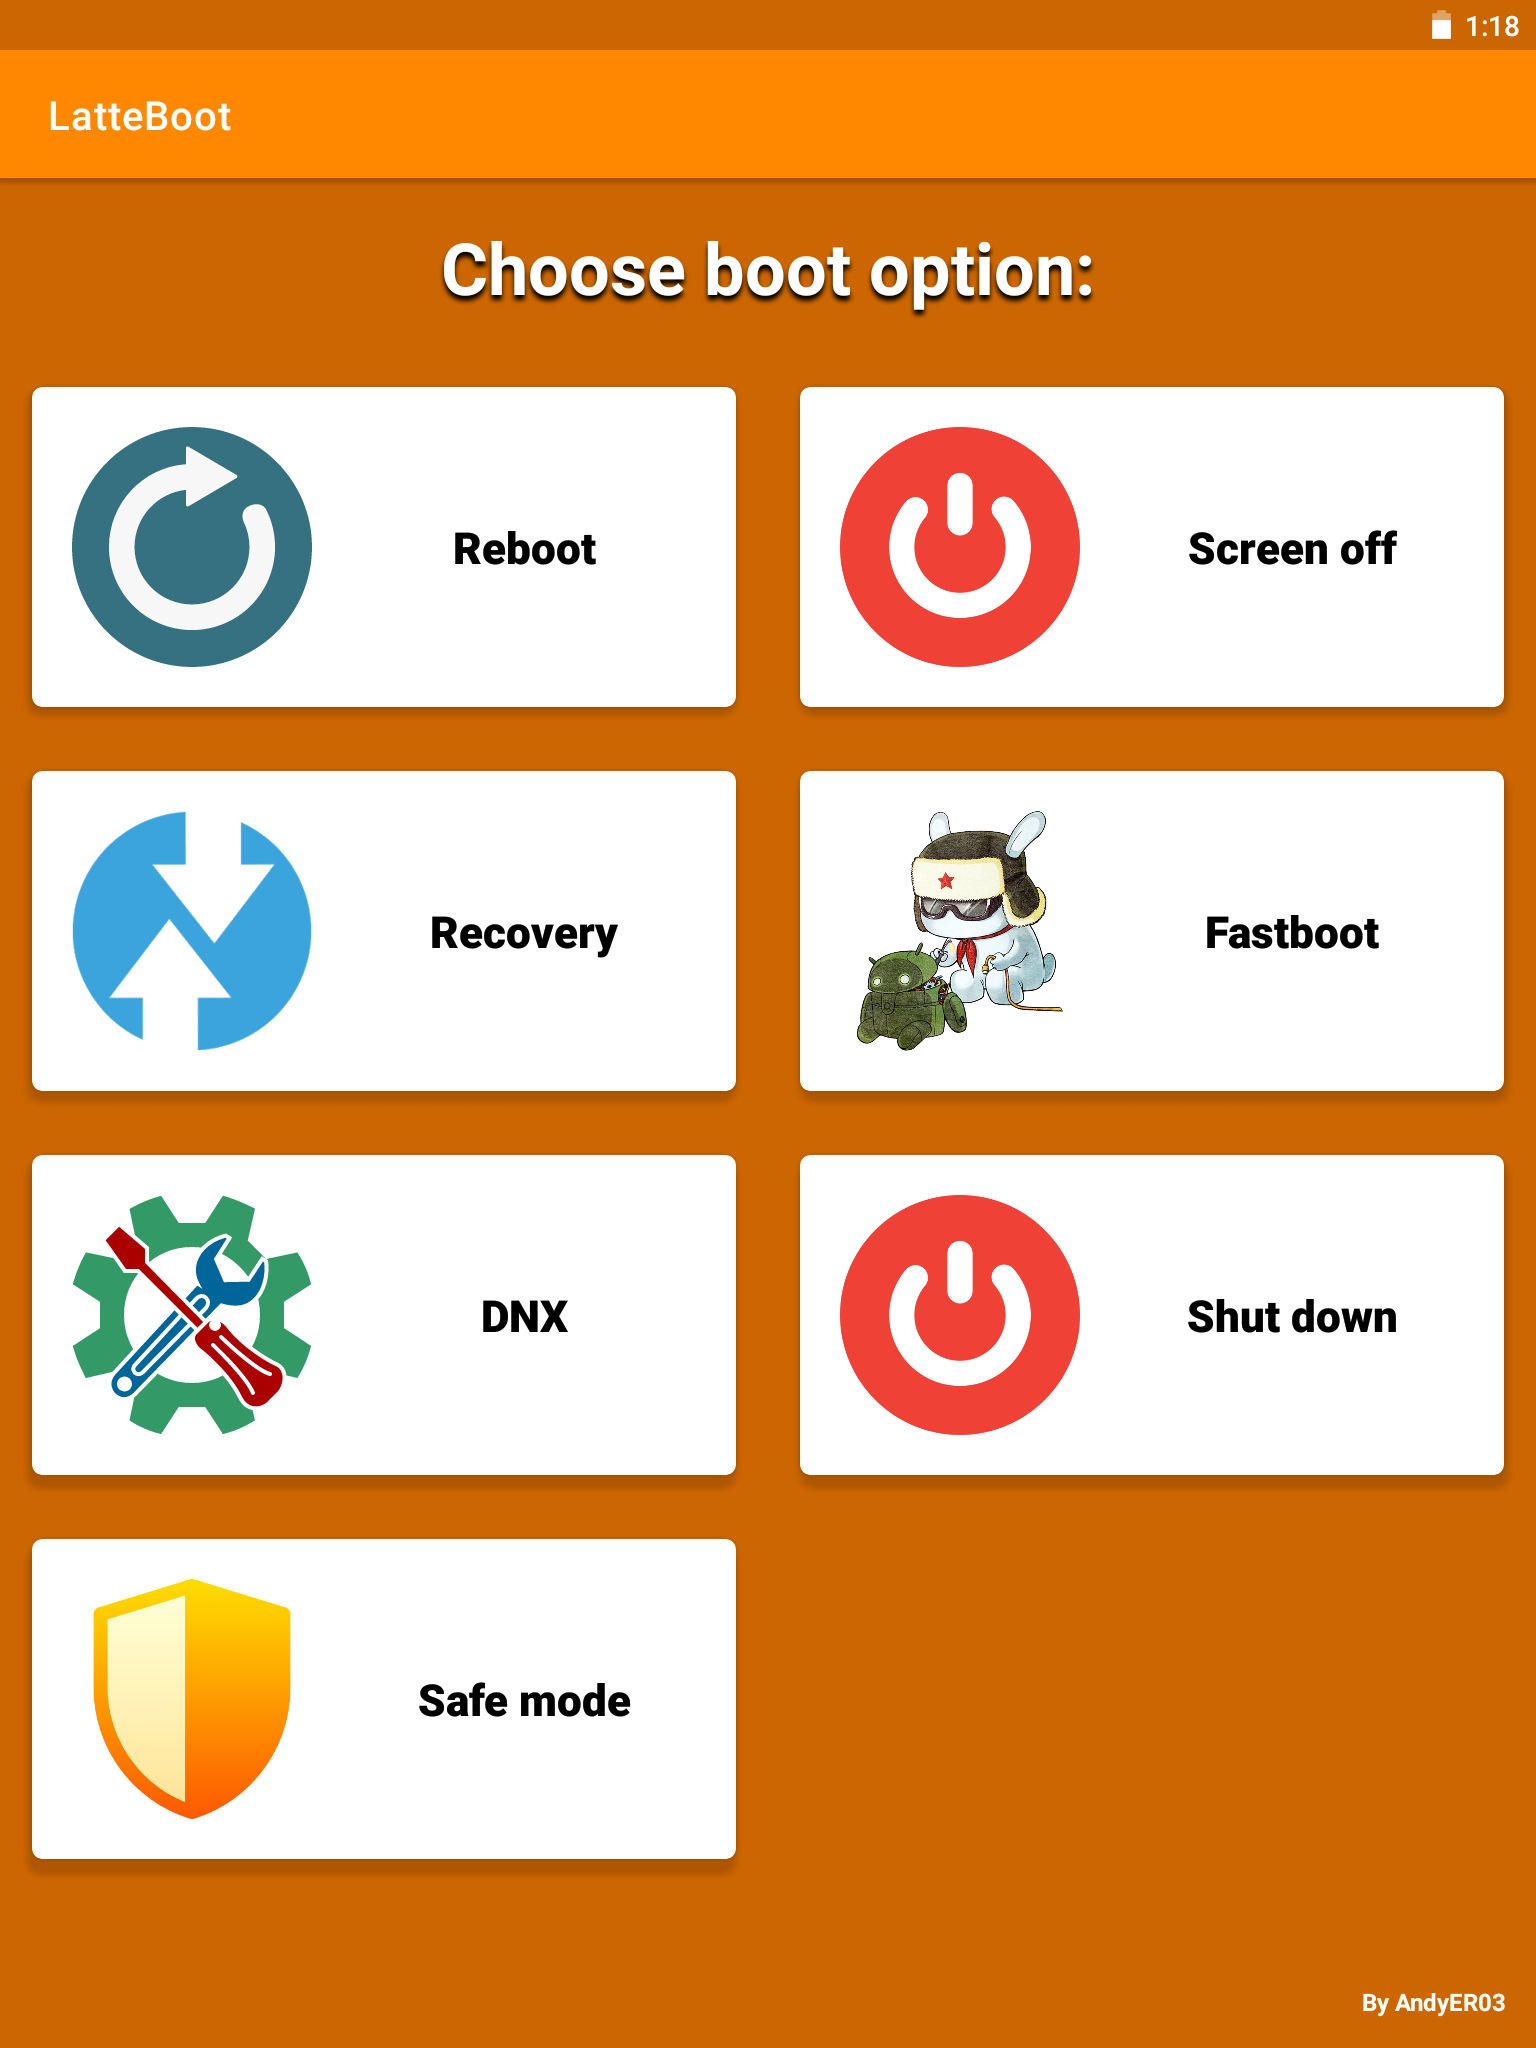
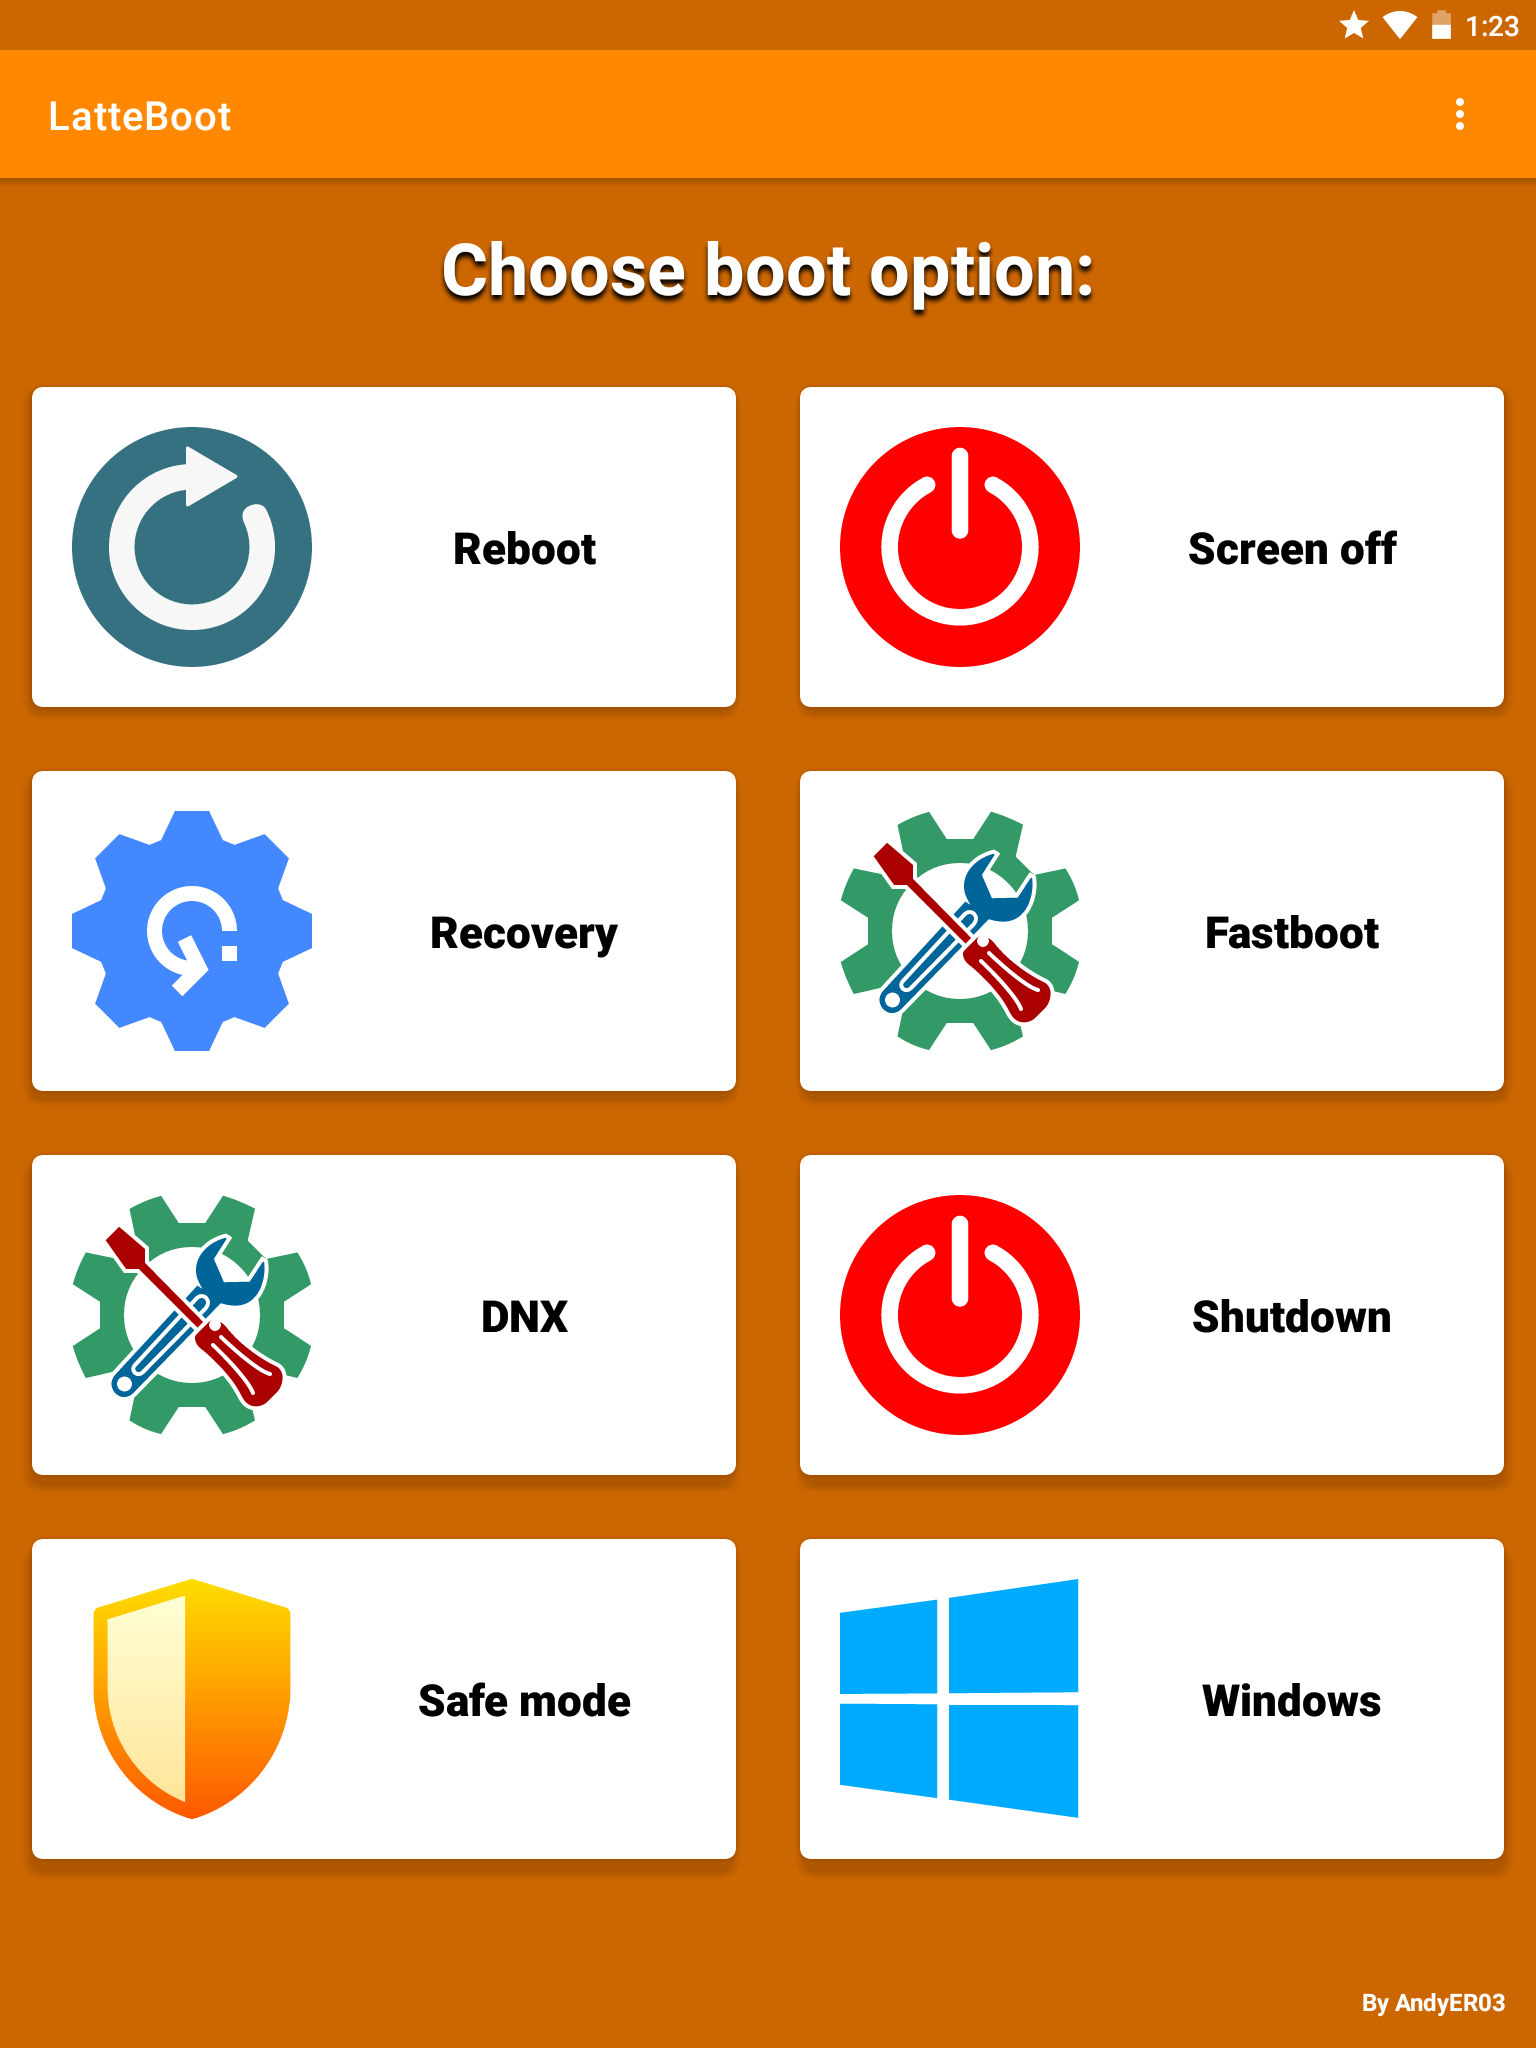
Screenshots updated

diff --git a/README.md b/README.md
@@ -35,7 +35,7 @@
 Screenshots:
 </p>
 <p align="center">
-<img src="https://raw.githubusercontent.com/AndyER03/LatteBoot/master/Screenshots/Scrn_1.png" width=30% height=25%> <img src="https://raw.githubusercontent.com/AndyER03/LatteBoot/master/Screenshots/Scrn_2.png" width=30% height=25%> <img src="https://raw.githubusercontent.com/AndyER03/LatteBoot/master/Screenshots/Scrn_3.png" width=30% height=25%> <img src="https://raw.githubusercontent.com/AndyER03/LatteBoot/master/Screenshots/Scrn_4.png" width=30% height=25%>
+<img src="https://raw.githubusercontent.com/AndyER03/LatteBoot/master/Screenshots/Scrn_1.png" width=30% height=25%> <img src="https://raw.githubusercontent.com/AndyER03/LatteBoot/master/Screenshots/Scrn_2.png" width=30% height=25%> <img src="https://raw.githubusercontent.com/AndyER03/LatteBoot/master/Screenshots/Scrn_3.png" width=30% height=25%>
 </p>
 
 ---
